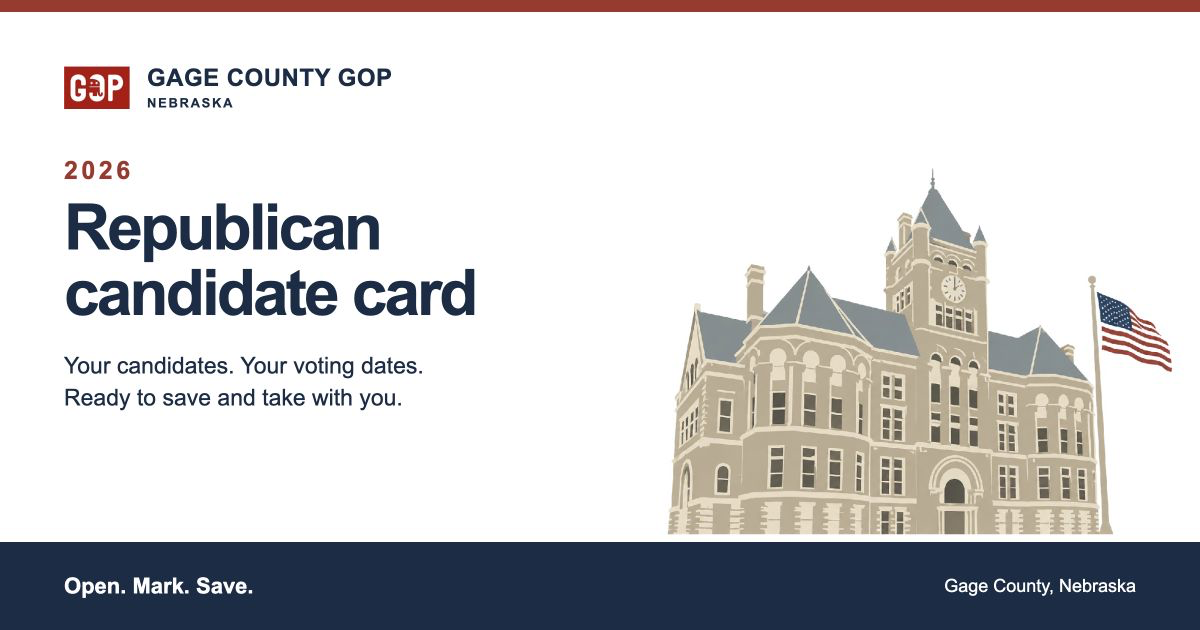
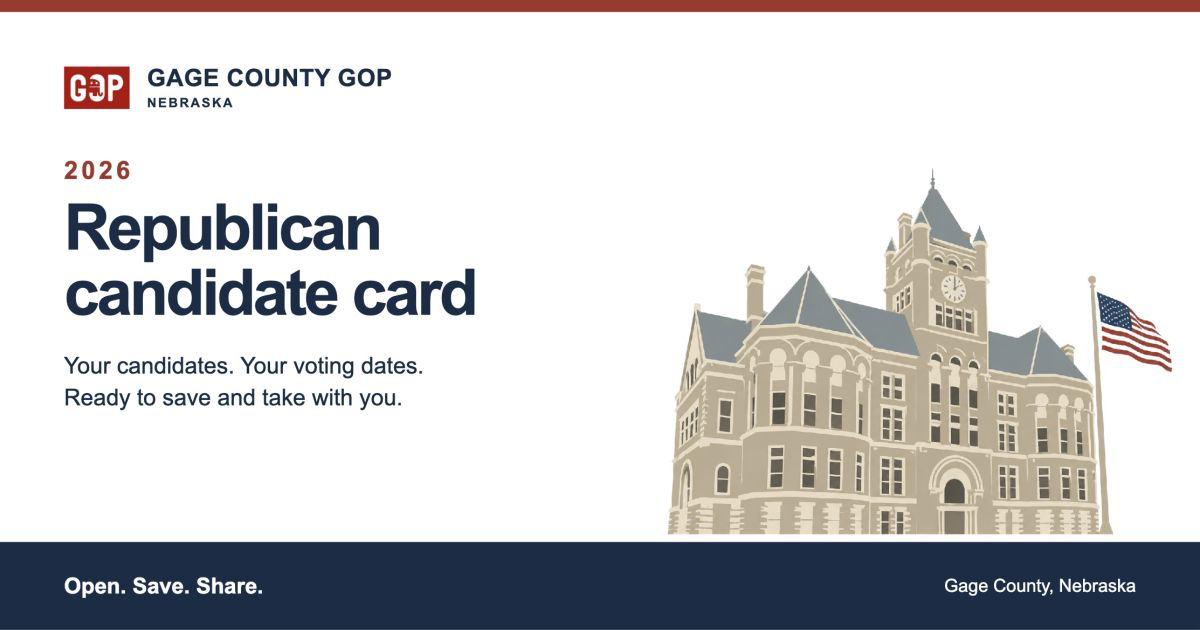
Remove candidate marking and preserve static ballot ovals

diff --git a/src/publications/gage-gop-2026/web/style.css b/src/publications/gage-gop-2026/web/style.css
@@ -1,4 +1,4 @@
-:root{--navy:#172c47;--red:#af201b;--ink:#22262c;--muted:#56606b;--line:#d8dce1;--paper:#fff;--wash:#f1f3f5;font-family:Arial,Helvetica,sans-serif;color:var(--ink);background:#e9edf1;color-scheme:light}*{box-sizing:border-box}html{scroll-padding-top:95px}body{margin:0}a{color:var(--navy);text-underline-offset:3px}button,select,input{font:inherit}button,.button{min-height:44px;border:1px solid var(--line);border-radius:7px;padding:10px 13px;background:white;color:var(--navy);font-weight:700;cursor:pointer;text-decoration:none;display:inline-flex;align-items:center;justify-content:center;gap:6px}button:hover,.button:hover{background:var(--wash)}:focus-visible{outline:3px solid #16729c;outline-offset:3px}.page{max-width:640px;margin:auto;background:var(--paper);min-height:100vh;padding:20px 20px max(32px,env(safe-area-inset-bottom))}.skip{position:absolute;left:-9999px}.skip:focus{left:20px;top:8px;background:white;padding:12px;z-index:10}.brand{border-top:4px solid var(--red);padding-top:14px;display:flex;align-items:center;gap:12px}.brand img{width:58px;height:auto}.brand strong{font-size:20px;color:var(--navy)}.eyebrow{font-size:12px;font-weight:700;letter-spacing:.07em;color:var(--muted);margin:4px 0}.hero h1{font-size:clamp(30px,7.5vw,40px);line-height:1.07;letter-spacing:-.025em;color:var(--navy);margin:24px 0 10px}.appeal{background:var(--red);color:white;font-size:17px;line-height:1.35;font-weight:700;padding:14px;margin:18px 0}.intro{font-size:15px;line-height:1.5;margin:12px 0}.source-date,.subtle{font-size:13px;line-height:1.5;color:var(--muted)}.source-date{padding-bottom:16px;margin-bottom:0}.quick-nav{position:sticky;top:0;z-index:3;background:rgba(255,255,255,.98);display:flex;align-items:center;gap:8px;border-top:1px solid var(--line);border-bottom:1px solid var(--line);padding:10px 0}.quick-nav select{min-height:44px;min-width:0;flex:1;border:1px solid var(--line);border-radius:7px;background:white;padding:8px;font-weight:700;color:var(--navy);width:50%}.quick-nav a{font-size:14px;padding:12px 7px}.selection-tools{padding:15px 0 4px;display:flex;align-items:center;justify-content:space-between;gap:12px;flex-wrap:wrap}.selection-tools label{font-size:14px;min-height:44px;display:flex;align-items:center;gap:8px}.selection-tools input{width:18px;height:18px;accent-color:var(--navy)}.selection-tools button{font-size:13px}.status{font-size:13px;line-height:1.45;min-height:20px;margin:7px 0 0}.error{color:#9d211b;font-weight:700}.category{margin-top:28px;scroll-margin-top:80px}.category h2,.section-title{font-size:17px;letter-spacing:.02em;line-height:1.3;background:var(--navy);color:white;padding:13px 14px;margin:0 0 8px;border-radius:2px}.office{margin:0;padding:20px 0 17px;border:0;border-bottom:1px solid var(--line);min-width:0}.office legend{float:left;width:100%;font-weight:700;font-size:16px;line-height:1.35;color:var(--navy);padding:0;margin:0 0 4px}.office legend+*{clear:both}.limit{font-size:13px;color:var(--muted);margin:0 0 8px}.candidate{display:flex;align-items:center;gap:12px;min-height:52px;padding:7px 8px 7px 0;border-radius:6px;cursor:pointer}.candidate input{appearance:none;flex:none;width:23px;height:15px;border:1.5px solid var(--muted);border-radius:50%;margin:0;position:relative;cursor:pointer}.candidate input:checked{background:var(--navy);border-color:var(--navy)}.candidate input:checked:after{content:'✓';position:absolute;color:white;font-size:12px;line-height:12px;left:5px;top:0}.candidate .name{font-size:18px;line-height:1.35;font-weight:700;color:var(--red)}.candidate:has(input:checked){background:#edf2f7;padding-left:8px}.candidate:has(input:checked) .name{color:var(--navy)}.marked{display:none;margin-left:auto;font-size:11px;color:var(--navy)}.candidate:has(input:checked) .marked{display:inline}.candidate:has(input:disabled){cursor:default}.date{padding:21px 0;border-bottom:1px solid var(--line)}.date h3{color:var(--red);font-size:20px;margin:0 0 8px}.date p{line-height:1.55;margin:0 0 12px;font-size:16px}.date a{font-size:14px}.actions{display:grid;grid-template-columns:1fr 1fr;gap:10px;margin:18px 0}.actions .primary{background:var(--navy);color:white;border-color:var(--navy)}details{border-bottom:1px solid var(--line);padding:16px 0}summary{font-weight:700;color:var(--navy);cursor:pointer;min-height:28px}details p,details li{line-height:1.55;font-size:15px}details ol{padding-left:22px}footer{border-top:3px solid var(--red);margin-top:30px;padding-top:20px}footer .site-link{font-size:25px;font-weight:700;text-decoration:none}footer p{font-size:13px;line-height:1.55;color:var(--muted)}.empty{padding:20px;background:var(--wash);font-size:15px;line-height:1.5}.js-only[hidden],[hidden]{display:none!important}@media(max-width:360px){.page{padding-left:16px;padding-right:16px}.brand strong{font-size:18px}.quick-nav a{padding:12px 4px;font-size:13px}.actions{grid-template-columns:1fr}}@media print{.quick-nav,.selection-tools,.js-only,#save,.status{display:none!important}.page{max-width:none}.candidate{min-height:30px}.category{break-inside:avoid}}
+:root{--navy:#172c47;--red:#af201b;--ink:#22262c;--muted:#56606b;--line:#d8dce1;--paper:#fff;--wash:#f1f3f5;font-family:Arial,Helvetica,sans-serif;color:var(--ink);background:#e9edf1;color-scheme:light}*{box-sizing:border-box}html{scroll-padding-top:95px}body{margin:0}a{color:var(--navy);text-underline-offset:3px}button,select,input{font:inherit}button,.button{min-height:44px;border:1px solid var(--line);border-radius:7px;padding:10px 13px;background:white;color:var(--navy);font-weight:700;cursor:pointer;text-decoration:none;display:inline-flex;align-items:center;justify-content:center;gap:6px}button:hover,.button:hover{background:var(--wash)}:focus-visible{outline:3px solid #16729c;outline-offset:3px}.page{max-width:640px;margin:auto;background:var(--paper);min-height:100vh;padding:20px 20px max(32px,env(safe-area-inset-bottom))}.skip{position:absolute;left:-9999px}.skip:focus{left:20px;top:8px;background:white;padding:12px;z-index:10}.brand{border-top:4px solid var(--red);padding-top:14px;display:flex;align-items:center;gap:12px}.brand img{width:58px;height:auto}.brand strong{font-size:20px;color:var(--navy)}.eyebrow{font-size:12px;font-weight:700;letter-spacing:.07em;color:var(--muted);margin:4px 0}.hero h1{font-size:clamp(30px,7.5vw,40px);line-height:1.07;letter-spacing:-.025em;color:var(--navy);margin:24px 0 10px}.appeal{background:var(--red);color:white;font-size:17px;line-height:1.35;font-weight:700;padding:14px;margin:18px 0}.intro{font-size:15px;line-height:1.5;margin:12px 0}.source-date,.subtle{font-size:13px;line-height:1.5;color:var(--muted)}.source-date{padding-bottom:16px;margin-bottom:0}.quick-nav{position:sticky;top:0;z-index:3;background:rgba(255,255,255,.98);display:flex;align-items:center;gap:8px;border-top:1px solid var(--line);border-bottom:1px solid var(--line);padding:10px 0}.quick-nav select{min-height:44px;min-width:0;flex:1;border:1px solid var(--line);border-radius:7px;background:white;padding:8px;font-weight:700;color:var(--navy);width:50%}.quick-nav a{font-size:14px;padding:12px 7px}.status{font-size:13px;line-height:1.45;min-height:20px;margin:7px 0 0}.error{color:#9d211b;font-weight:700}.category{margin-top:28px;scroll-margin-top:80px}.category h2,.section-title{font-size:17px;letter-spacing:.02em;line-height:1.3;background:var(--navy);color:white;padding:13px 14px;margin:0 0 8px;border-radius:2px}.office{margin:0;padding:20px 0 17px;border:0;border-bottom:1px solid var(--line);min-width:0}.office legend{float:left;width:100%;font-weight:700;font-size:16px;line-height:1.35;color:var(--navy);padding:0;margin:0 0 4px}.office legend+*{clear:both}.limit{font-size:13px;color:var(--muted);margin:0 0 8px}.candidate{display:flex;align-items:center;gap:12px;min-height:52px;padding:7px 8px 7px 0;border-radius:6px}.candidate .name{font-size:18px;line-height:1.35;font-weight:700;color:var(--red)}.date{padding:21px 0;border-bottom:1px solid var(--line)}.date h3{color:var(--red);font-size:20px;margin:0 0 8px}.date p{line-height:1.55;margin:0 0 12px;font-size:16px}.date a{font-size:14px}.actions{display:grid;grid-template-columns:1fr 1fr;gap:10px;margin:18px 0}.actions .primary{background:var(--navy);color:white;border-color:var(--navy)}details{border-bottom:1px solid var(--line);padding:16px 0}summary{font-weight:700;color:var(--navy);cursor:pointer;min-height:28px}details p,details li{line-height:1.55;font-size:15px}details ol{padding-left:22px}footer{border-top:3px solid var(--red);margin-top:30px;padding-top:20px}footer .site-link{font-size:25px;font-weight:700;text-decoration:none}footer p{font-size:13px;line-height:1.55;color:var(--muted)}.empty{padding:20px;background:var(--wash);font-size:15px;line-height:1.5}.js-only[hidden],[hidden]{display:none!important}@media(max-width:360px){.page{padding-left:16px;padding-right:16px}.brand strong{font-size:18px}.quick-nav a{padding:12px 4px;font-size:13px}.actions{grid-template-columns:1fr}}@media print{.quick-nav,.page{max-width:none}.candidate{min-height:30px}.category{break-inside:avoid}}
 
 .calendar-actions{display:flex;align-items:center;gap:18px;flex-wrap:wrap}.calendar-actions>a{min-height:44px;display:inline-flex;align-items:center}
 
@@ -17,7 +17,7 @@
  .hero .intro{grid-column:2;grid-row:3}
  .hero .source-date{grid-column:2;grid-row:4;padding-bottom:24px;margin-top:0}
  .quick-nav select{max-width:360px}
- .selection-tools{justify-content:flex-start;gap:24px}
+
  .office-grid{display:grid;grid-template-columns:repeat(2,minmax(0,1fr));column-gap:28px;align-items:start}
  .category{margin-top:36px}
  .office{height:100%;padding:22px 0}
@@ -47,7 +47,7 @@
  .office-grid{grid-template-columns:repeat(3,minmax(0,1fr));column-gap:26px}
  .category{scroll-margin-top:0}
  .date-grid{grid-template-columns:repeat(3,minmax(0,1fr))}
- .selection-tools{padding-top:6px}
+
  .candidate .name{font-size:17px}
  .candidate{gap:9px}
 }
@@ -58,3 +58,5 @@
 #save{margin-top:8px;margin-bottom:20px}
 #save .intro{max-width:65ch}
 #save .actions{margin-bottom:0}
+
+.candidate{cursor:default}.ballot-oval{flex:none;width:23px;height:15px;border:1.5px solid var(--muted);border-radius:50%}

diff --git a/src/publications/gage-gop-2026/web/app.js b/src/publications/gage-gop-2026/web/app.js
@@ -1,36 +1,6 @@
 import {shareSticker} from './sticker-share.mjs';
-import {restoreSelection, canMark} from './selection.mjs';
-const storageKey='gage-gop-2026-marks';
-const inputs=[...document.querySelectorAll('.candidate input')];
-const records=inputs.map(input=>({id:input.value,contest:input.closest('fieldset').dataset.contest,limit:Number(input.closest('fieldset').dataset.limit)}));
-const status=document.querySelector('#selection-status'), filter=document.querySelector('#marked-only');
-let canStore=true,saved=[];
-try {saved=JSON.parse(localStorage.getItem(storageKey)||'[]');localStorage.setItem('gage-card-check','1');localStorage.removeItem('gage-card-check');} catch {canStore=false;}
-let selected=restoreSelection(saved,records);
 document.querySelectorAll('.js-only').forEach(el=>el.hidden=false);
-inputs.forEach(input=>{input.disabled=false;input.checked=selected.has(input.value);});
-function persist(){if(canStore)try{localStorage.setItem(storageKey,JSON.stringify([...selected]));}catch{canStore=false;}}
-function announce(message){status.textContent=message||`${selected.size} marked. ${canStore?'Saved on this device only.':'Marks last for this session only; device storage is unavailable.'}`;status.classList.toggle('error',Boolean(message));}
-function applyFilter(){
- for(const input of inputs)input.closest('label').hidden=filter.checked&&!input.checked;
- for(const office of document.querySelectorAll('.office'))office.hidden=filter.checked&&![...office.querySelectorAll('input')].some(i=>i.checked);
- for(const category of document.querySelectorAll('#candidates .category'))category.hidden=filter.checked&&![...category.querySelectorAll('.office')].some(o=>!o.hidden);
- document.querySelector('#empty-selection').hidden=!(filter.checked&&!selected.size);
-}
-inputs.forEach((input,index)=>input.addEventListener('change',()=>{
- const row=records[index];
- const office=input.closest("fieldset");
- let notice=office.querySelector(".contest-notice");
- if(!notice){notice=document.createElement("p");notice.className="contest-notice status error";office.append(notice);}
- notice.textContent="";
- if(input.checked&&!canMark(selected,row,records)){input.checked=false;notice.textContent=`You can mark up to ${row.limit}. Unmark a name first.`;announce(`You can mark up to ${row.limit} for ${office.querySelector("legend").textContent}. Unmark a name first.`);return;}
- if(input.checked)selected.add(row.id);else selected.delete(row.id);
- persist();applyFilter();announce();
-}));
-filter.addEventListener('change',applyFilter);
-document.querySelector('#clear').addEventListener('click',()=>{selected.clear();document.querySelectorAll(".contest-notice").forEach(el=>el.textContent="");inputs.forEach(i=>i.checked=false);persist();applyFilter();announce();});
-const jump=document.querySelector('#jump');jump.addEventListener('change',()=>{if(!jump.value)return;filter.checked=false;applyFilter();const target=document.getElementById(jump.value);target.scrollIntoView();target.querySelector('h2')?.focus({preventScroll:true});jump.value='';});
-persist();announce();
+const jump=document.querySelector('#jump');jump.addEventListener('change',()=>{if(!jump.value)return;const target=document.getElementById(jump.value);target.scrollIntoView();target.querySelector('h2')?.focus({preventScroll:true});jump.value='';});
 // Keep previously saved offline copies available without adding more save controls.
 if('serviceWorker' in navigator && window.isSecureContext)navigator.serviceWorker.register('./sw.js').catch(()=>{});
 const share=document.querySelector('#share');
@@ -61,5 +31,3 @@ stickerShare.addEventListener('click',async()=>{
  stickerShare.disabled=false;
  stickerStatus.textContent=result==='unsupported'||result==='failed'?'This browser could not share the image. Save it below, then attach it to your Facebook post or message.':result==='handed-off'?'Your phone handled the sharing request.':'Sharing canceled. Your sticker is still ready to save.';
 });
-
-document.querySelectorAll('[data-section]').forEach(link=>link.addEventListener('click',()=>{filter.checked=false;applyFilter();}));

diff --git a/src/publications/gage-gop-2026/social/preview.html b/src/publications/gage-gop-2026/social/preview.html
@@ -1,3 +1,3 @@
 <!doctype html><html lang="en"><head><meta charset="utf-8"><title>Candidate card share image</title><style>
 *{box-sizing:border-box}body{margin:0;background:#fff;font-family:Arial,sans-serif;color:#172c47}.poster{width:1200px;height:630px;position:relative;overflow:hidden;padding:52px 64px;border-top:12px solid #a63129}.brand{display:flex;align-items:center;gap:17px;font-size:24px;font-weight:800;letter-spacing:.02em}.brand img{width:66px}.brand small{display:block;font-size:13px;letter-spacing:.13em;margin-top:4px}.copy{position:relative;z-index:1;margin-top:45px}.year{font-size:25px;font-weight:700;letter-spacing:.14em;color:#a63129;margin-bottom:10px}h1{font-size:64px;letter-spacing:-.045em;line-height:1.02;margin:0;width:620px}.details{font-size:23px;line-height:1.4;margin:24px 0 0}.courthouse{position:absolute;right:20px;bottom:88px;width:520px;z-index:0}.bottom{position:absolute;bottom:0;left:0;right:0;height:88px;background:#172c47;color:white;display:flex;align-items:center;justify-content:space-between;padding:0 64px;font-size:22px;font-weight:700}.bottom span:last-child{font-size:18px;font-weight:400}.square .poster{width:1080px;height:1080px;padding:64px 70px}.square .copy{margin-top:62px}.square h1{font-size:79px;width:940px}.square .year{font-size:29px}.square .details{font-size:27px;margin-top:25px}.square .courthouse{width:675px;right:40px;bottom:92px}.square .bottom{height:92px;padding:0 70px}.square .brand{font-size:27px}
-</style></head><body><article class="poster"><header class="brand"><img src="../assets/gop-logo.webp" alt="GOP"><div>GAGE COUNTY GOP<small>NEBRASKA</small></div></header><img class="courthouse" src="../assets/courthouse-reference.jpg" alt="Gage County courthouse"><div class="copy"><div class="year">2026</div><h1>Republican<br>candidate card</h1><p class="details">Your candidates. Your voting dates.<br>Ready to save and take with you.</p></div><footer class="bottom"><span>Open. Mark. Save.</span><span>Gage County, Nebraska</span></footer></article><script>if(new URLSearchParams(location.search).has('square'))document.body.className='square';</script></body></html>
+</style></head><body><article class="poster"><header class="brand"><img src="../assets/gop-logo.webp" alt="GOP"><div>GAGE COUNTY GOP<small>NEBRASKA</small></div></header><img class="courthouse" src="../assets/courthouse-reference.jpg" alt="Gage County courthouse"><div class="copy"><div class="year">2026</div><h1>Republican<br>candidate card</h1><p class="details">Your candidates. Your voting dates.<br>Ready to save and take with you.</p></div><footer class="bottom"><span>Open. Save. Share.</span><span>Gage County, Nebraska</span></footer></article><script>if(new URLSearchParams(location.search).has('square'))document.body.className='square';</script></body></html>

diff --git a/src/site/index.html b/src/site/index.html
@@ -15,7 +15,7 @@
 <header class="brand"><img src="./vote-2026/assets/gop-logo.webp" alt="GOP" width="58" height="38"><div>GAGE COUNTY GOP<small>NEBRASKA</small></div></header>
 <h1>Voter resources<br>&amp; publications</h1>
 <p class="intro">Gage County GOP projects to save, share, and use.</p>
-<a class="project" href="./vote-2026/"><h2>2026 Republican candidate card</h2><p>Browse candidates, mark your reference card, save voting dates, and download the print or phone edition.</p><span class="open">Open the voter card →</span></a>
+<a class="project" href="./vote-2026/"><h2>2026 Republican candidate card</h2><p>Browse candidates, save voting dates, and download the print or phone edition.</p><span class="open">Open the voter card →</span></a>
 <footer><a href="https://www.gagecountygop.org/">Visit gagecountygop.org</a></footer>
 </main><script>if('serviceWorker' in navigator)navigator.serviceWorker.register('./sw.js').catch(()=>{});</script></body>
 </html>

diff --git a/AGENTS.md b/AGENTS.md
@@ -6,6 +6,6 @@ The 2026 election snapshot is imported from Local Civic Reference. Correct candi
 
 Edit src/ and scripts/, then build public/; never edit generated HTML directly. PDFs and the long image are checked-in publication artifacts under output/pdf. Preserve original user artwork and prompt provenance. The current courthouse sticker is an image-generated adaptation of the supplied illustration; scripts/build-gop-sticker.py creates only the retired badge.
 
-Run npm run check before release. Maintain relative links, scoped offline caching, local-only candidate marks, accurate calendar media types and file sharing that sends only the sticker. Never claim a share-sheet handoff means a social post was published.
+Run npm run check before release. Maintain relative links, scoped offline caching, noninteractive candidate ovals, accurate calendar media types and file sharing that sends only the sticker. Never claim a share-sheet handoff means a social post was published.
 
 GitHub Pages is the current host. The intended domain is vote.gagecountygop.org. Do not reinstate Sites publishing or copy old Sites DNS records from the historical notes. Current migration and DNS instructions are in project-docs/HOSTING.md. Keep the future GOP projects independent of the neutral civic site's deployment.

diff --git a/project-docs/gage-gop-flyer-brief.md b/project-docs/gage-gop-flyer-brief.md
@@ -77,3 +77,7 @@ At the owner’s request, the save section offers exactly three actions, in orde
 ## Lead with take-along formats
 
 The owner identified print and saved-phone use as the original priority. Place the existing three-action save section directly after the masthead, before navigation and candidate marks, on every screen size. Explain briefly which PDF to use and that PDFs contain the full unmarked list. Keep the existing oval-marking instruction beside the web controls so each instruction precedes the action it explains. Do not duplicate the save section at the bottom.
+
+## Static ballot reference
+
+Remove candidate selection, filters, counters and marking instructions at the owner’s request. Keep decorative ovals, names and voting limits. The webcard is a reference, not an interactive ballot. Remove selection storage reads/writes and update current promotional wording. This supersedes prior selection requirements.

diff --git a/README.md b/README.md
@@ -58,7 +58,7 @@ The courthouse sticker is the approved generated artwork; its original reference
 
 Push to `main`: GitHub Actions builds, runs checks, and deploys only `public/` to Pages. Pull requests run the same checks without publishing. The custom domain is intentionally not enabled until its DNS can be connected. See `project-docs/HOSTING.md`.
 
-Reference marks stay in the visitor's browser. The site does not send marks to a server or include them in shares. Native calendar and sharing behavior depends on the visitor's phone/browser; image and PDF downloads remain available.
+Candidate ovals are visual references only. Native calendar and sharing behavior depends on the visitor's phone/browser; image and PDF downloads remain available.
 
 ## Assets and rights
 
